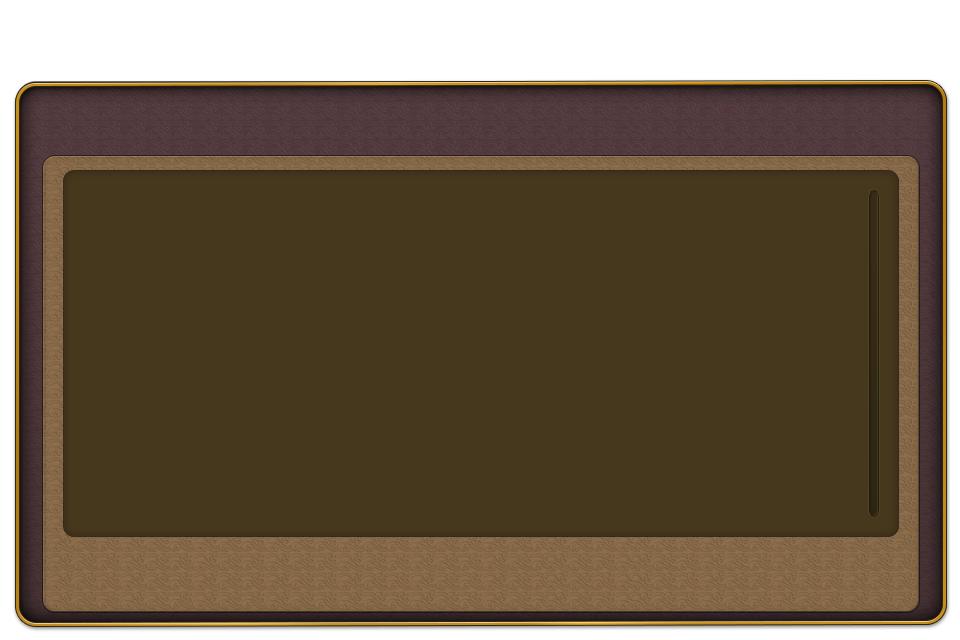
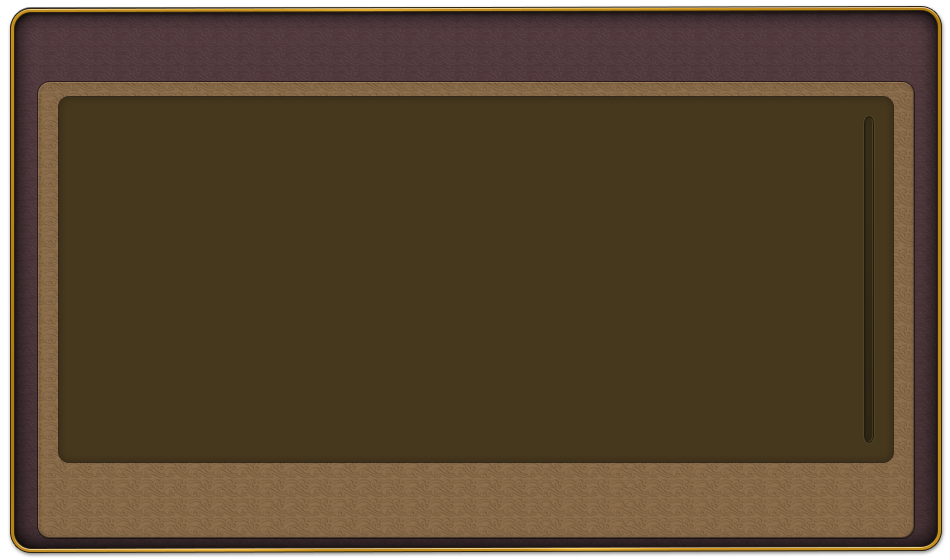
업적 팝업 back 위치 조정

diff --git a/Classes/AchievePopup.cpp b/Classes/AchievePopup.cpp
@@ -59,8 +59,7 @@ bool AchievePopup::init()
 	addChild(gray, kAchievePopupZorder_gray);
 	
 	main_case = CCSprite::create("achievement_back.png");
-	main_case->setAnchorPoint(CCPointZero);
-	main_case->setPosition(ccp(0,-320));
+	main_case->setPosition(ccp(240,160-450));
 	addChild(main_case, kAchievePopupZorder_back);
 	
 	recent_code = kAchievePopupListCode_all;
@@ -113,7 +112,7 @@ void AchievePopup::showPopup()
 	CCFadeTo* gray_fade = CCFadeTo::create(0.4f, 255);
 	gray->runAction(gray_fade);
 	
-	CCMoveTo* main_move = CCMoveTo::create(0.5f, ccp(0,0));
+	CCMoveTo* main_move = CCMoveTo::create(0.5f, ccp(240,160));
 	CCCallFunc* main_call = CCCallFunc::create(this, callfunc_selector(AchievePopup::endShowPopup));
 	CCSequence* main_seq = CCSequence::createWithTwoActions(main_move, main_call);
 	main_case->runAction(main_seq);
@@ -132,7 +131,7 @@ void AchievePopup::hidePopup()
 	CCFadeTo* gray_fade = CCFadeTo::create(0.4f, 0);
 	gray->runAction(gray_fade);
 	
-	CCMoveTo* main_move = CCMoveTo::create(0.5f, ccp(0,-320));
+	CCMoveTo* main_move = CCMoveTo::create(0.5f, ccp(240,160-450));
 	CCCallFunc* main_call = CCCallFunc::create(this, callfunc_selector(AchievePopup::endHidePopup));
 	CCSequence* main_seq = CCSequence::createWithTwoActions(main_move, main_call);
 	main_case->runAction(main_seq);
